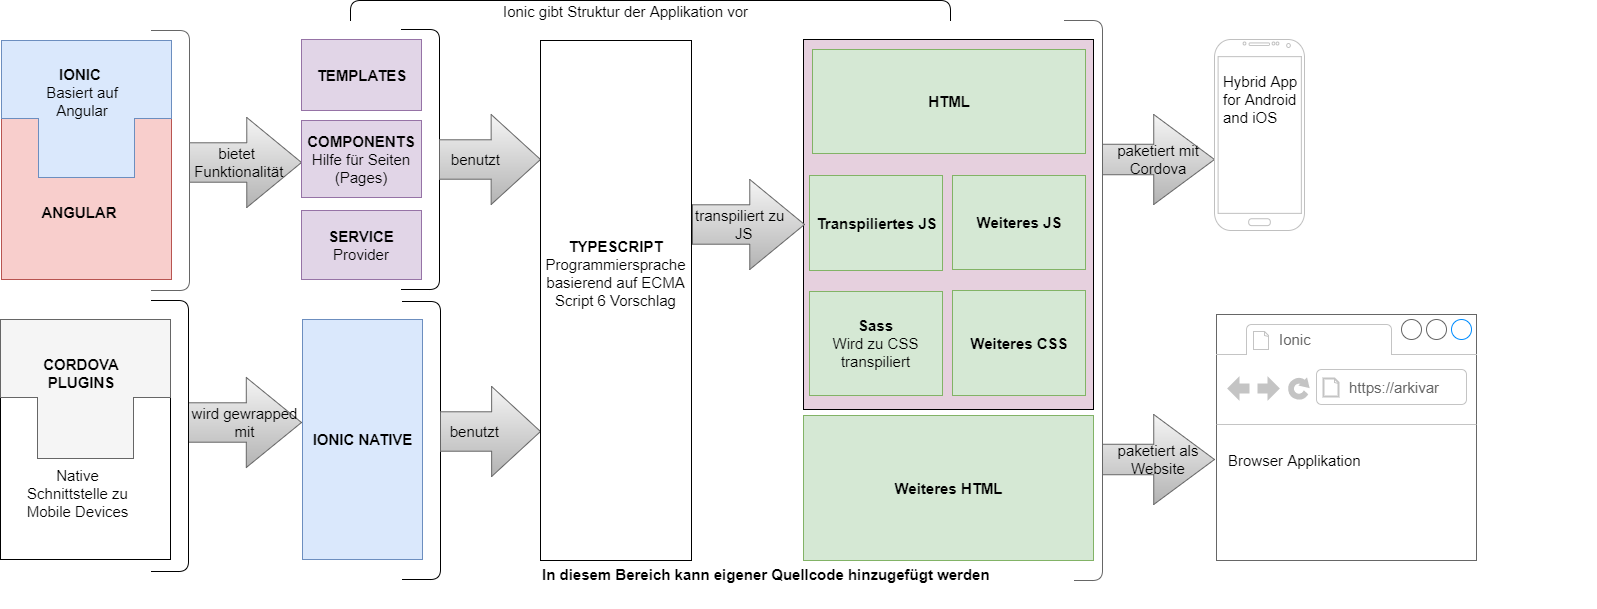
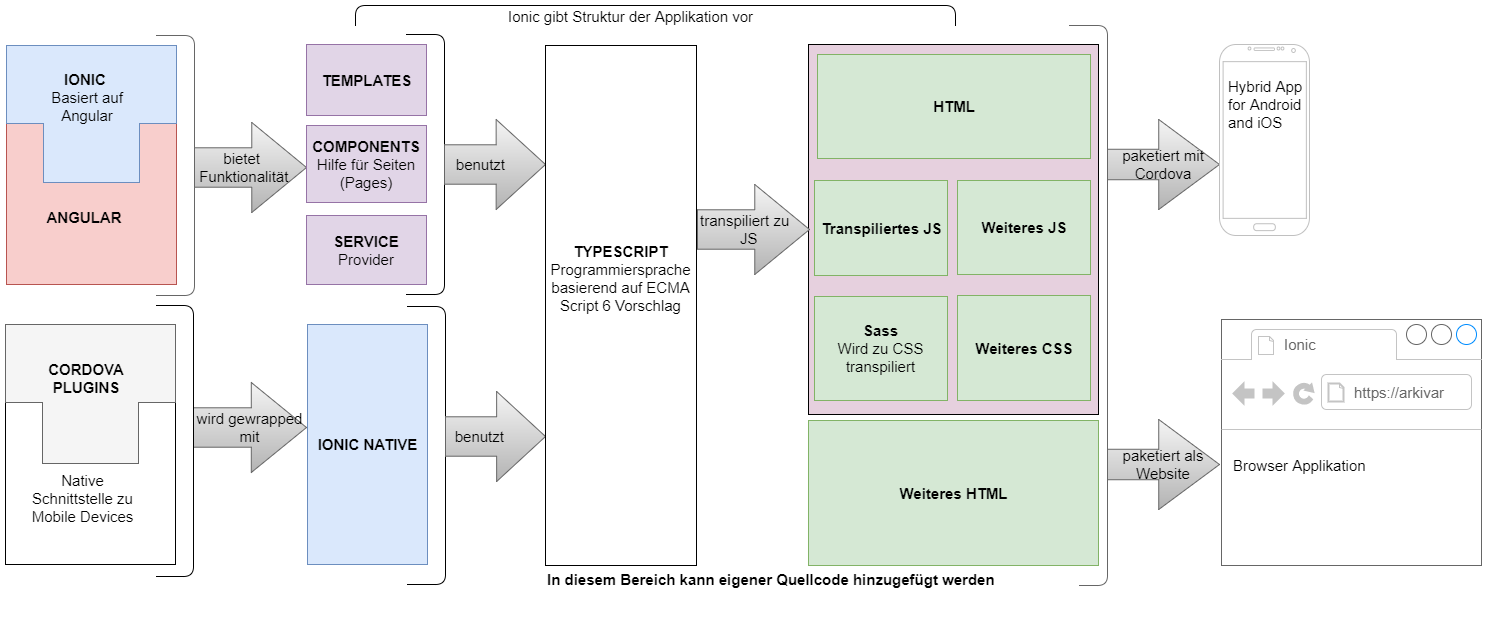
docs: fix picture border, typos and title format

diff --git a/docs/sad.md b/docs/sad.md
@@ -50,9 +50,9 @@ Damit das Projekt sauber strukturiert ist und sich neue Entwickler rasch zurecht
     ├──── themes                     # scss Files für die Gestaltung der App 
     ├── e2e                          # Automatisierte End to End Tests
 
-# Technologie
+## Technologie
 
-## Technologie Stack
+### Technologie Stack
 
 Folgende Technologien werden innerhalb des Projekts verwendet:
 
@@ -73,11 +73,11 @@ Folgende Technologien werden innerhalb des Projekts verwendet:
 | Dokumentationstool                   | Github             | ![Github](images/logo/Github_Logo.jpg) | https://github.com/                     |
 | Team Kommunikation                   | Slack              | ![Slack](images/logo/Slack_Logo.jpg) | https://slack.com/                      |
 | Entwicklungsumgebung                 | Visual Studio Code | ![Visual Studio Code](images/logo/Visual_Studio_Code_Logo.jpg) | https://code.visualstudio.com/          |
-| Zeiterfassung                        | Goolge Drive       | ![Google Drive](images/logo/Google_Drive_Logo.jpg) | https://drive.google.com/ |
+| Zeiterfassung                        | Google Drive       | ![Google Drive](images/logo/Google_Drive_Logo.jpg) | https://drive.google.com/ |
 
-## Assembly Flow
+### Assembly Flow
 Der Assembly Flow zeigt die Module und verschiedenen Technologien auf, welche gebraucht werden, um eine Ionic App zu bauen.
 
 ![Assembly FLow](images/assembly_flow.png)
 
-Ionic basiert auf Angular und bietet weitere Funktionen wie Templates, Komponenten und vorgefertigte Providers. Ausserdem gibt es die Struktur vor und ist zuständig für das Verbinden der Komponenten. Für die Smartphone-Anbindung werden Cordova-Plugins verwendet, damit auch die nativen Betriebssystemfunktionen (z.B. Kamera) benutzt werden können. Zur Einbindung dieser Ionic-Funktionen wird Typescript genutzt, welches die Grundlage für den eigenen Code ist. Dieser kann erweitert werden durch HTML und Sass. Auch ist es möglich fremdes Javascript oder HTML zu verwenden. Das komplette Paket kann anschliessend zu einem App für verschiedene mobile Betriebssysteme oder zu einer Browserapplikation kompiliert werden.
+Ionic basiert auf Angular und bietet weitere Funktionen wie Templates, Komponenten und vorgefertigte Providers. Ausserdem gibt es die Struktur vor und ist zuständig für das Verbinden der Komponenten. Für die Smartphone-Anbindung werden Cordova-Plugins verwendet, damit auch die nativen Betriebssystemfunktionen (z.B. Kamera) benutzt werden können. Zur Einbindung dieser Ionic-Funktionen wird Typescript genutzt, welches die Grundlage für den eigenen Code ist. Dieser kann erweitert werden durch HTML und Sass. Auch ist es möglich fremdes Javascript oder HTML zu verwenden. Das komplette Paket kann anschliessend zu einem App für verschiedene mobile Betriebssysteme oder zu einer Browser Applikation kompiliert werden.
